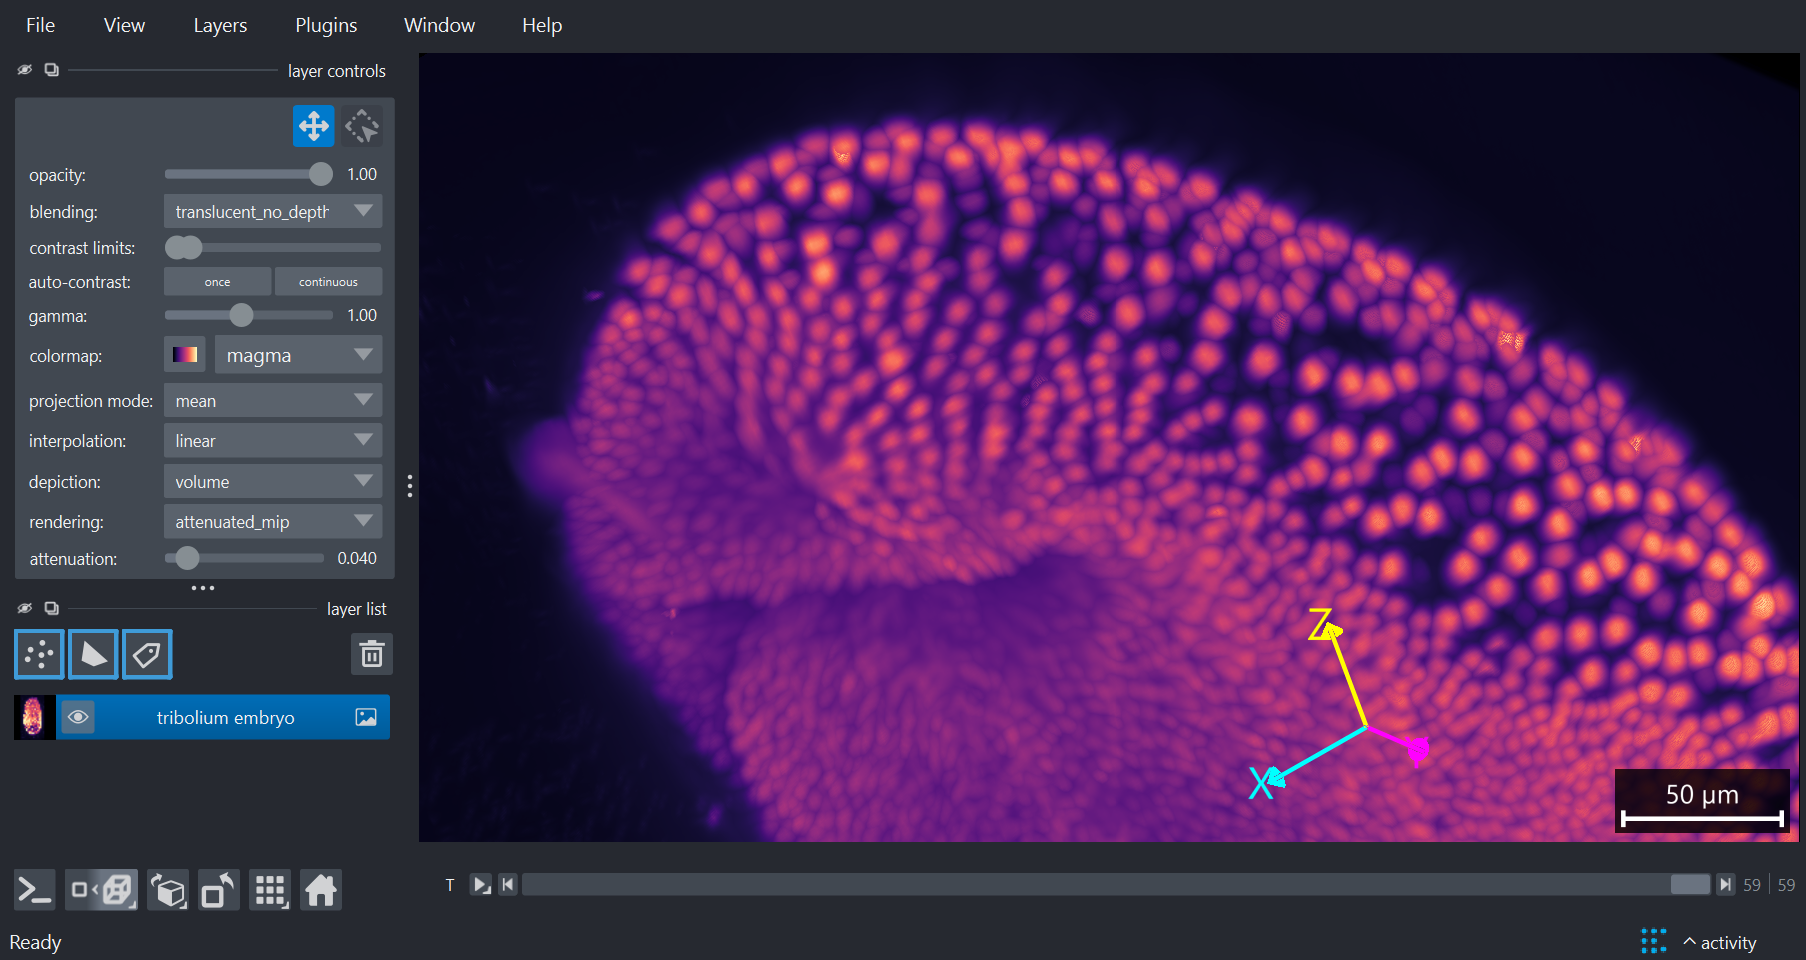
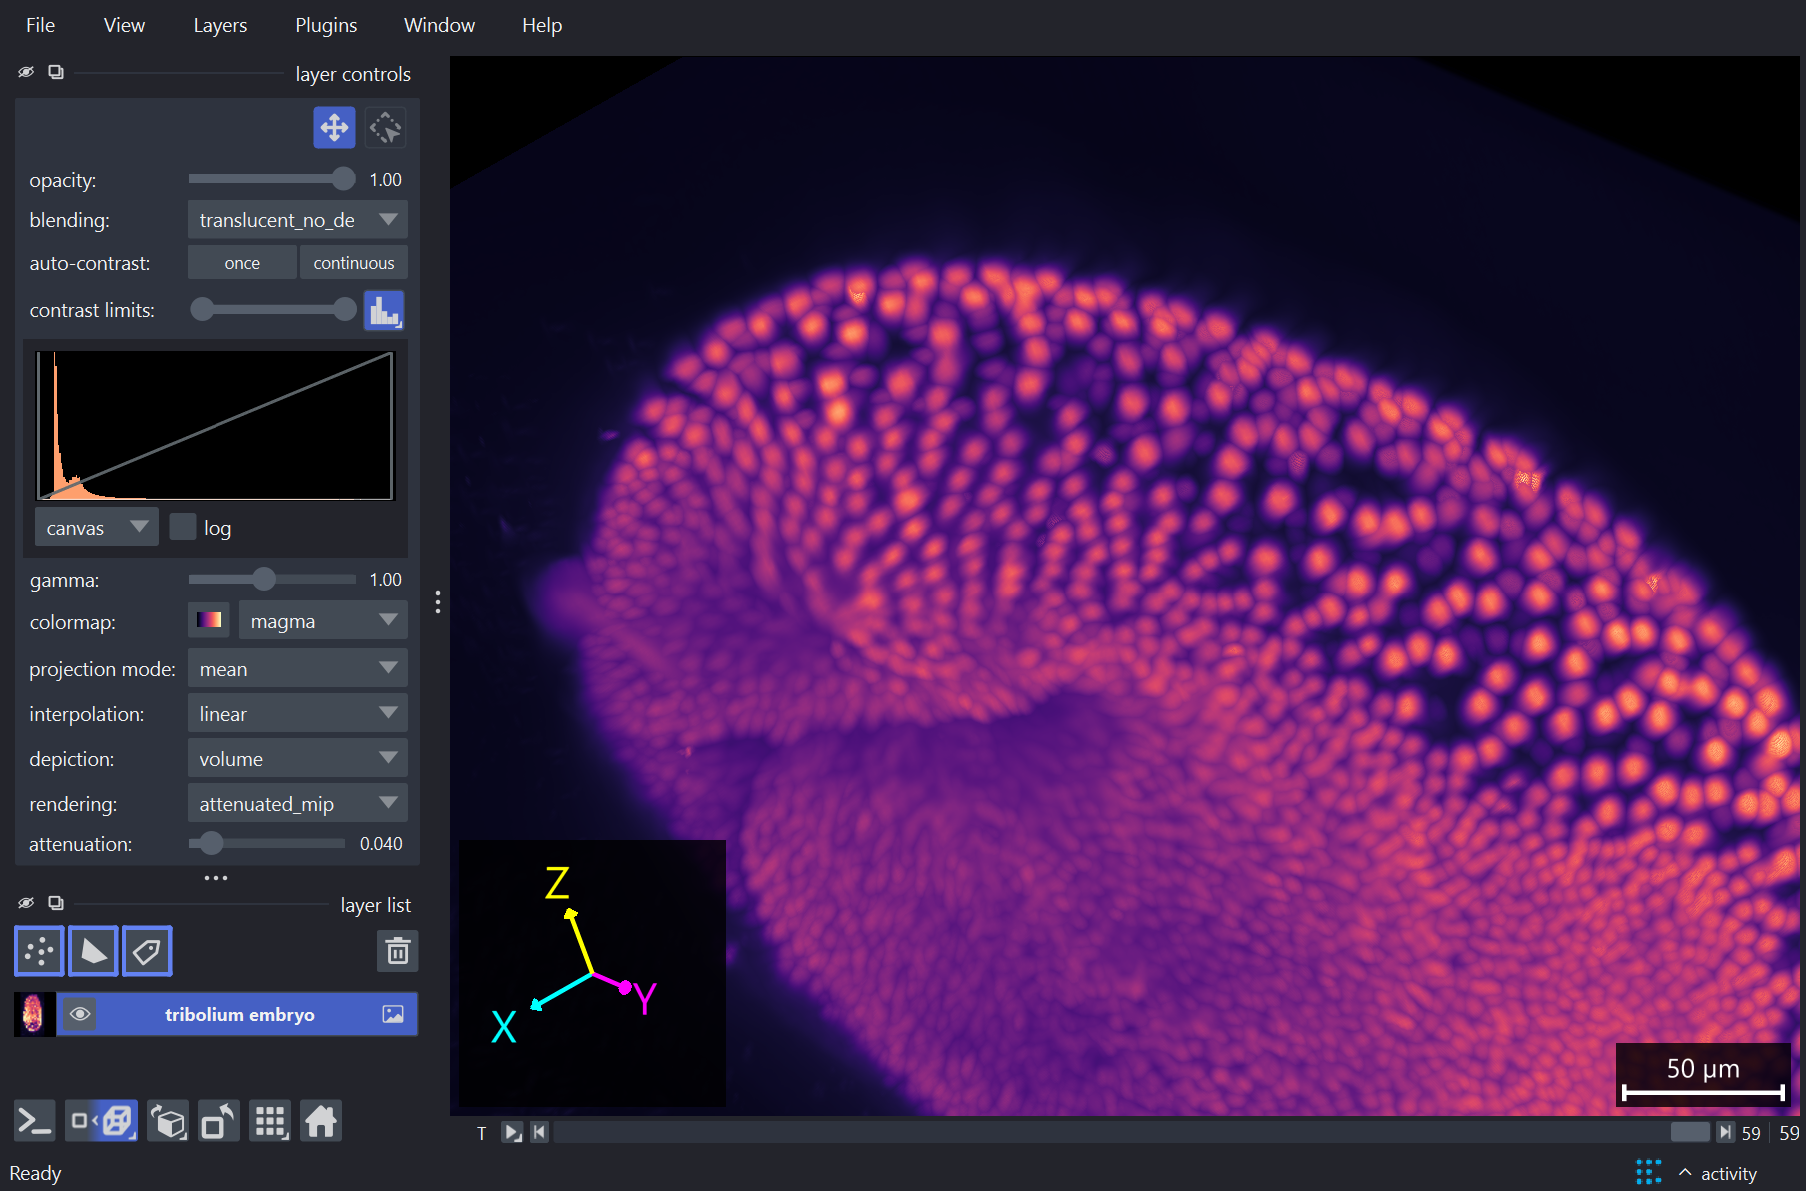
update script and renderings for 0.8

diff --git a/docs/_scripts/homepage_video.py b/docs/_scripts/homepage_video.py
@@ -79,12 +79,14 @@ def build_viewer(*, show: bool) -> napari.Viewer:
     layer = viewer.layers[0]
     layer.name = LAYER_NAME
     layer.contrast_limits = CONTRAST_LIMITS
+    layer.contrast_limits_range = CONTRAST_LIMITS
     layer.rendering = RENDERING
     layer.attenuation = ATTENUATION
     layer.colormap = COLORMAP
-    viewer.scale_bar.visible = True
-    viewer.axes.visible = True
+    layer.histogram.enabled = True
     viewer.dims.axis_labels = ('T', 'Z', 'Y', 'X')
+    viewer.scale_bar.visible = True
+    viewer.floating_axes.visible = True
     viewer.window._qt_window.resize(*WINDOW_SIZE)
     viewer.fit_to_view()
     return viewer